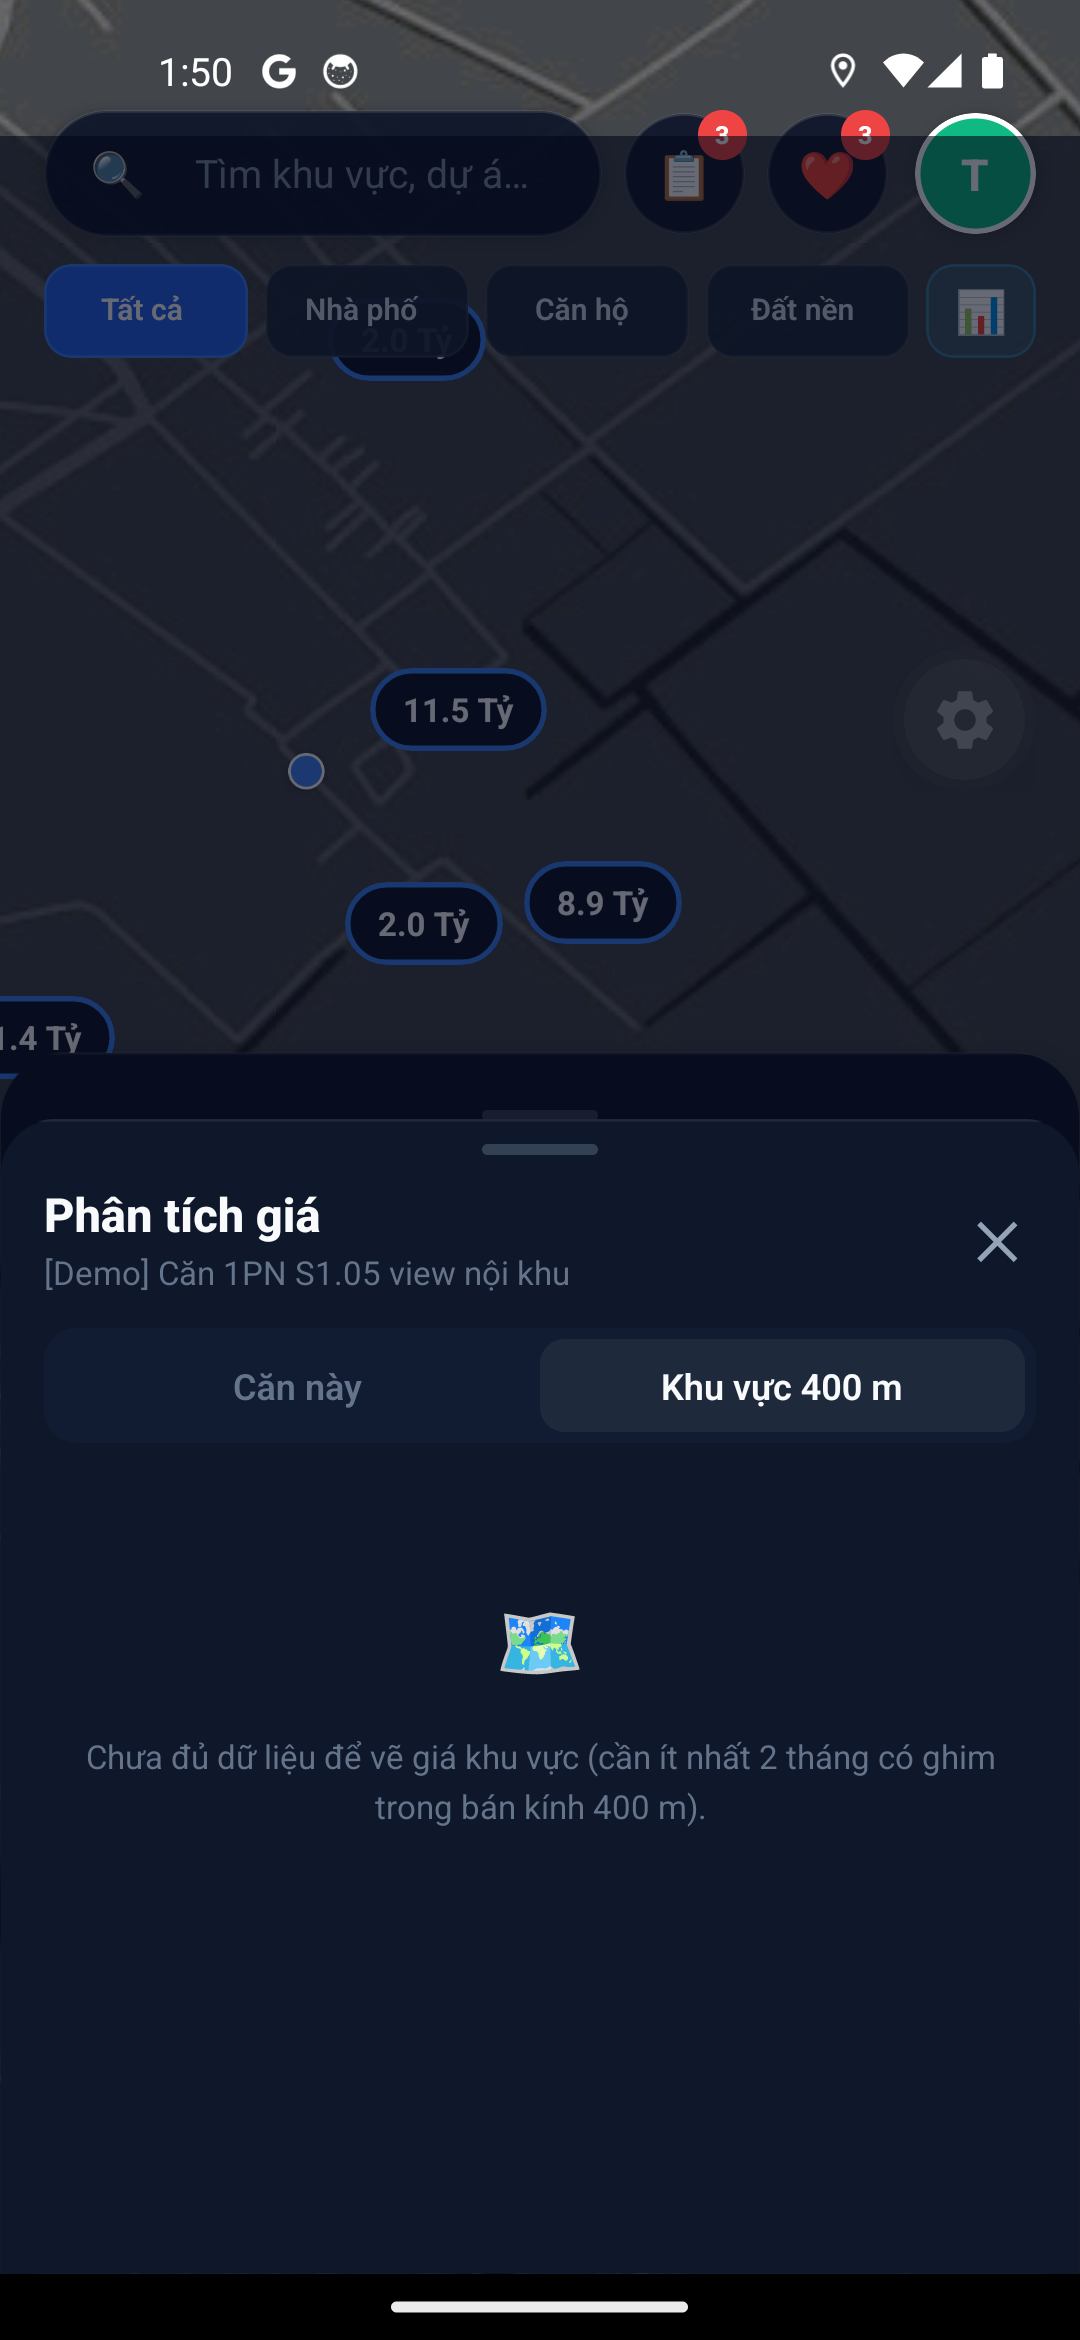
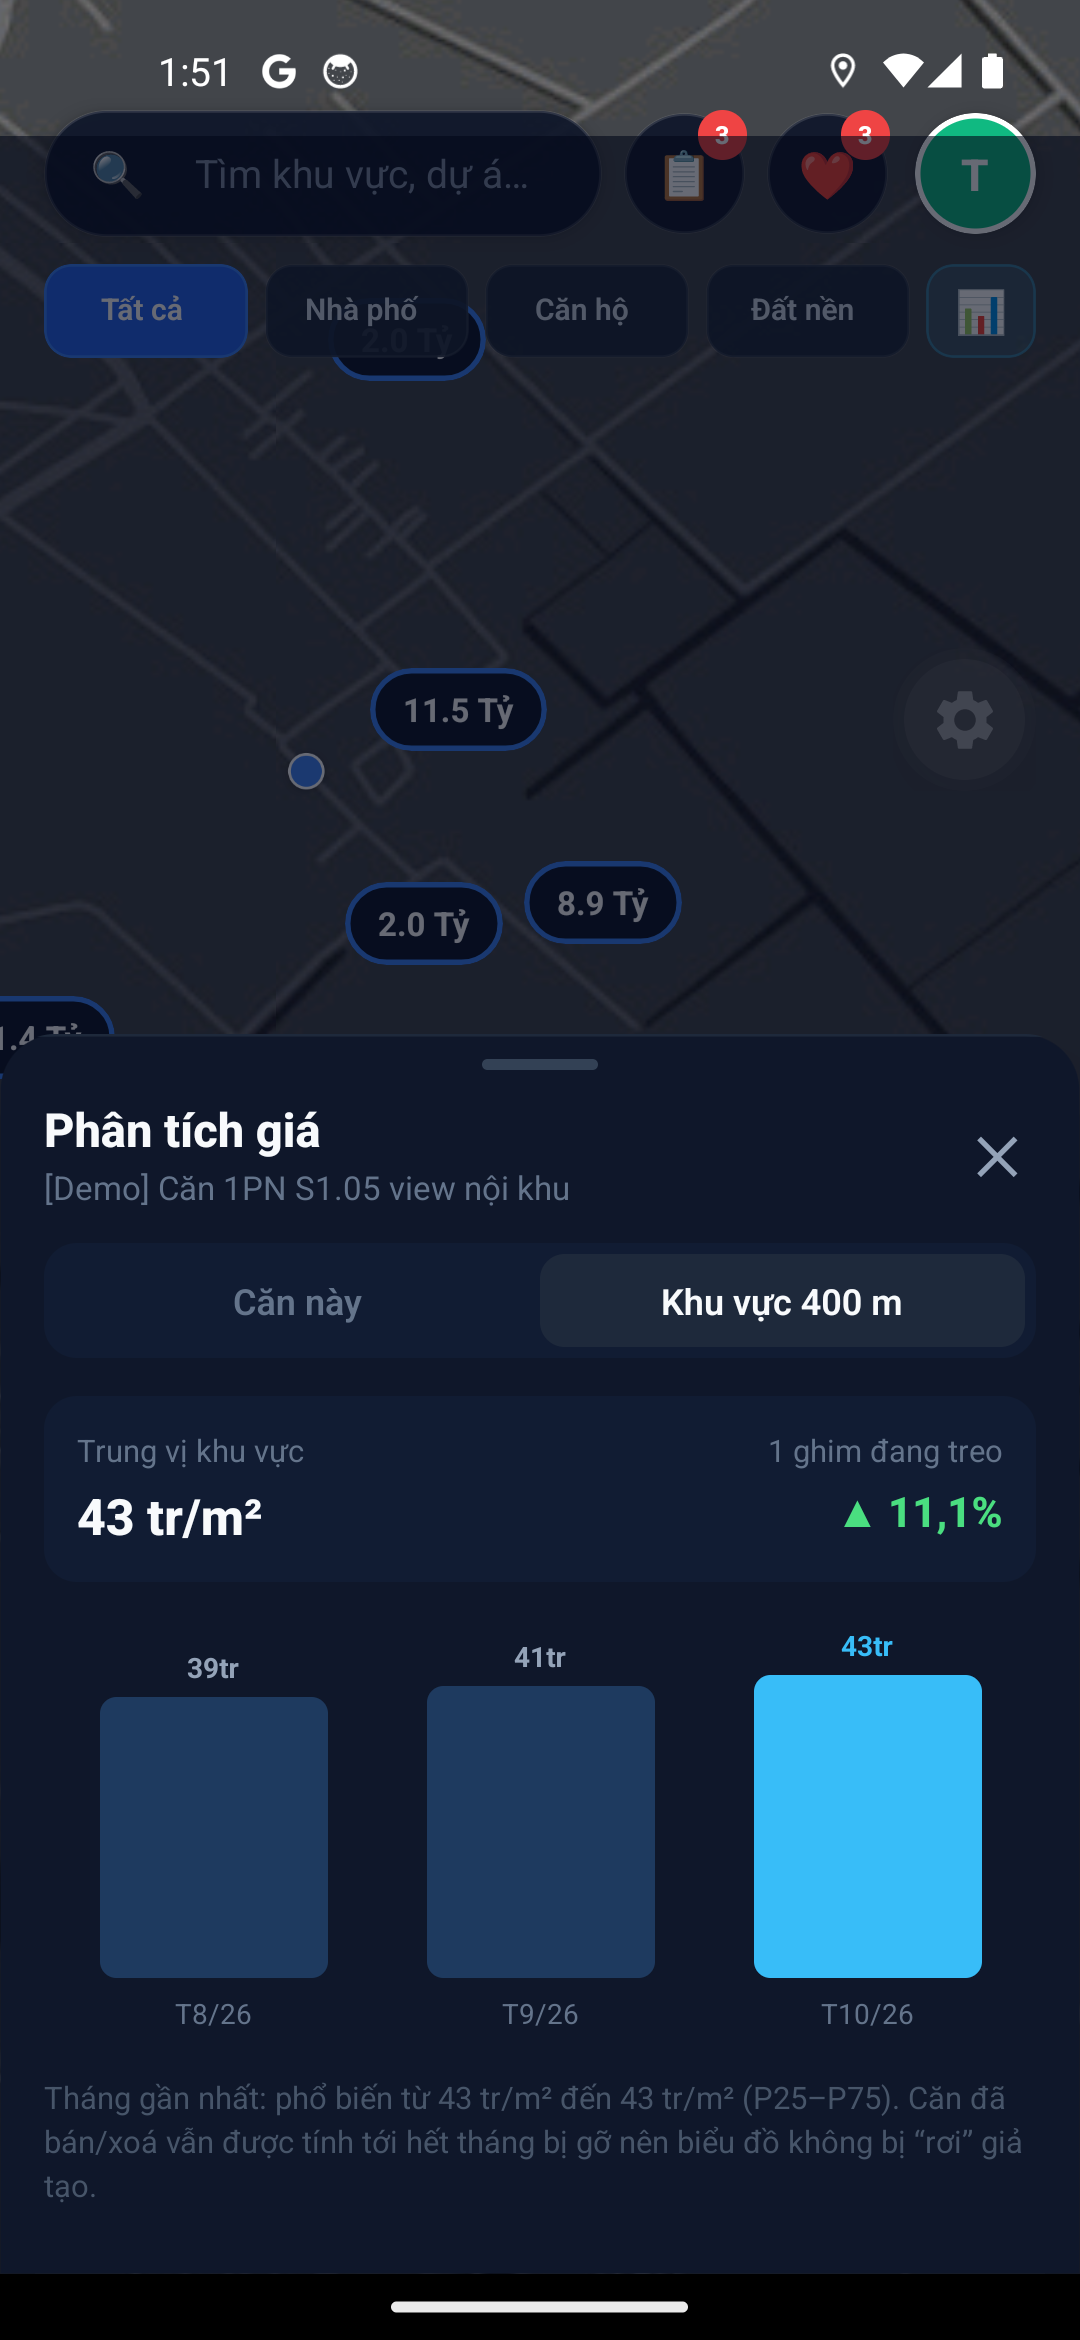
feat(chart): gom bieu do gia vao sheet Phan tich gia 2 tab, the ghim chi con 1 dong xu huong

diff --git a/src/components/PriceAnalysisSheet.tsx b/src/components/PriceAnalysisSheet.tsx
@@ -224,7 +224,7 @@ export const PriceAnalysisSheet: React.FC<PriceAnalysisSheetProps> = ({
                   activeColor="#38bdf8"
                   format={(v) => `${Math.round(v / 1_000_000)}tr`}
                 />
-                {latestArea && latestArea.p25 > 0 && latestArea.p75 > 0 ? (
+                {latestArea && latestArea.p25 > 0 && latestArea.p75 > latestArea.p25 ? (
                   <Text style={styles.note}>
                     Tháng gần nhất: phổ biến từ {formatPpm2(latestArea.p25)} đến {formatPpm2(latestArea.p75)} (P25–P75).
                     Căn đã bán/xoá vẫn được tính tới hết tháng bị gỡ nên biểu đồ không bị “rơi” giả tạo.
